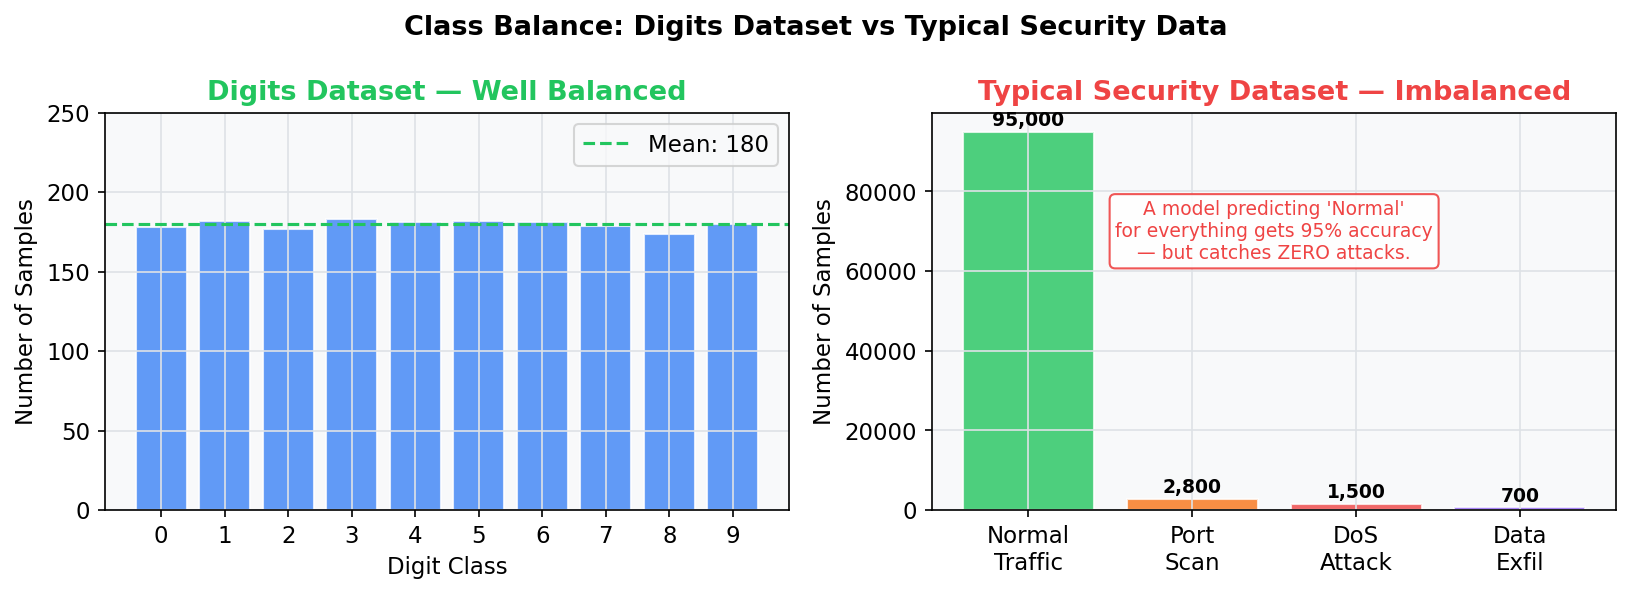
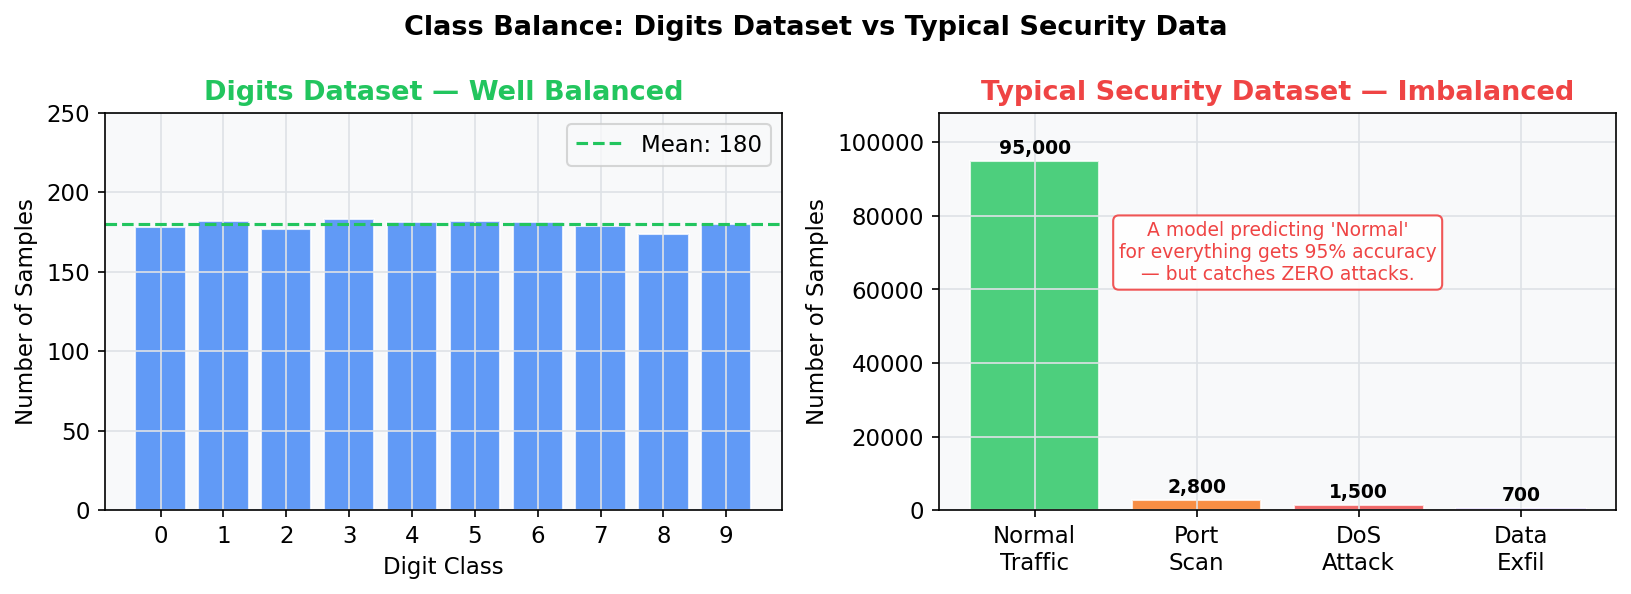
Fix arrow alignment and bar chart label clipping in diagrams
- ml_vs_programming: center down-arrows on box midpoint (x=7.25) and
  fix Traditional down-arrow endpoint to land on top of Output box
- class_imbalance: raise y-axis limit to 108000 so the 95,000 label
  clears the top of the chart

diff --git a/generate_assets.py b/generate_assets.py
@@ -56,10 +56,10 @@ def fig_ml_vs_programming():
         ax1.add_patch(mpatches.FancyBboxPatch((x, y), 2.5, 1.5,
             boxstyle="round,pad=0.1", facecolor=color, alpha=0.2, edgecolor=color, linewidth=2))
         ax1.text(x+1.25, y+0.75, label, ha="center", va="center", fontsize=10, fontweight="bold", color=color)
-    for (x1,y1), (x2,y2) in [((3.5,8.25),(6,6.75)), ((3.5,5.25),(6,6.25))]:
+    for (x1,y1), (x2,y2) in [((3.5,8.25),(6,7.0)), ((3.5,5.25),(6,6.5))]:
         ax1.annotate("", xy=(x2,y2), xytext=(x1,y1),
             arrowprops=dict(arrowstyle="->", color=GRAY, lw=1.5))
-    ax1.annotate("", xy=(6,3.75), xytext=(6,6),
+    ax1.annotate("", xy=(7.25,4.5), xytext=(7.25,6),
         arrowprops=dict(arrowstyle="->", color=GRAY, lw=1.5))
 
     # ML
@@ -75,10 +75,10 @@ def fig_ml_vs_programming():
         ax2.add_patch(mpatches.FancyBboxPatch((x, y), 2.5, 1.5,
             boxstyle="round,pad=0.1", facecolor=color, alpha=0.2, edgecolor=color, linewidth=2))
         ax2.text(x+1.25, y+0.75, label, ha="center", va="center", fontsize=10, fontweight="bold", color=color)
-    for (x1,y1), (x2,y2) in [((3.5,8.25),(6,6.75)), ((3.5,5.25),(6,6.25))]:
+    for (x1,y1), (x2,y2) in [((3.5,8.25),(6,7.0)), ((3.5,5.25),(6,6.5))]:
         ax2.annotate("", xy=(x2,y2), xytext=(x1,y1),
             arrowprops=dict(arrowstyle="->", color=GRAY, lw=1.5))
-    ax2.annotate("", xy=(6,4.5), xytext=(6,6),
+    ax2.annotate("", xy=(7.25,4.5), xytext=(7.25,6),
         arrowprops=dict(arrowstyle="->", color=GRAY, lw=1.5))
 
     plt.tight_layout()
@@ -166,8 +166,9 @@ def fig_class_imbalance():
     bars = ax2.bar(classes, counts_imbalanced, color=colors, alpha=0.8, edgecolor="white")
     ax2.set_title("Typical Security Dataset — Imbalanced", color=RED)
     ax2.set_ylabel("Number of Samples")
+    ax2.set_ylim(0, 108000)
     for bar, count in zip(bars, counts_imbalanced):
-        ax2.text(bar.get_x() + bar.get_width()/2, bar.get_height() + 500,
+        ax2.text(bar.get_x() + bar.get_width()/2, bar.get_height() + 800,
                  f"{count:,}", ha="center", va="bottom", fontsize=9, fontweight="bold")
     ax2.text(1.5, 70000,
         "A model predicting 'Normal'\nfor everything gets 95% accuracy\n— but catches ZERO attacks.",
